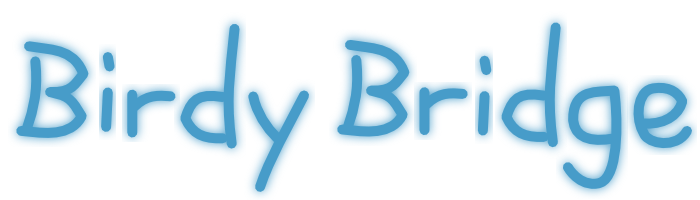
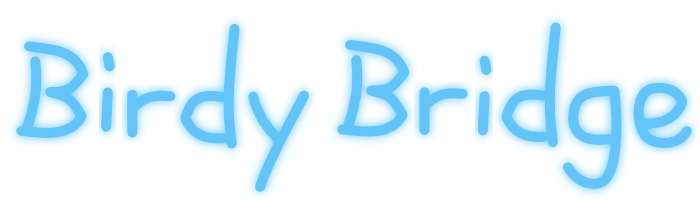
Fixed bugs.

Changed region(s): [[0.48, 0.12, 0.99, 0.96], [0.0, 0.12, 0.45, 0.96], [0.66, 0.27, 0.72, 0.39]]

diff --git a/data/script/main.js b/data/script/main.js
@@ -38,6 +38,16 @@ game.main = function(){
 	logo.y = 400;
 	logo.scaleX = 0.5;
 	logo.scaleY = 0.5;
+	logo.alpha = 0.8;
+	logo.on('mouseover', function(){
+		logo.alpha = 1;
+	});
+	logo.on('mouseout', function(){
+		logo.alpha = 0.8;
+	});
+	logo.on('click', function(){
+		window.open('http://github.com/LastLeaf', '_blank');
+	});
 	stage.addChild(logo);
 
 	// title
@@ -71,6 +81,37 @@ game.main = function(){
 		window.open('https://en.wikipedia.org/wiki/The_Weaver_Girl_and_the_Cowherd', '_blank');
 	});
 	stage.addChild(desc0, desc1, desc2);
+
+	// mute
+	var createButton = function(text, x, y, cb){
+		var menuButton = new createjs.Text(text, '18px "Noto Sans",sans', '#fff');
+		menuButton.alpha = 0.5;
+		menuButton.lineHeight = 30;
+		menuButton.textBaseline = 'middle';
+		menuButton.textAlign = 'center';
+		var menuButtonWrapper = new createjs.Container();
+		var menuButtonShape = new createjs.Shape();
+		menuButtonShape.graphics.f('#000').r(-50,-15,100,30);
+		menuButtonWrapper.x = x;
+		menuButtonWrapper.y = y;
+		menuButtonWrapper.addChild(menuButtonShape, menuButton);
+		stage.addChild(menuButtonWrapper);
+		menuButtonWrapper.on('mouseover', function(){
+			menuButton.alpha = 1;
+		});
+		menuButtonWrapper.on('mouseout', function(){
+			menuButton.alpha = 0.5;
+		});
+		menuButtonWrapper.on('click', cb);
+		return menuButtonWrapper;
+	};
+	var mute = createButton( game.sound.muted() ? 'Music: Off' : 'Music: On', 480, 410, function(){
+		if(game.sound.muteToggle()) {
+			mute.getChildAt(1).text = 'Music: Off';
+		} else {
+			mute.getChildAt(1).text = 'Music: On';
+		}
+	});
 
 	// levels
 	var birdsLoc = [
@@ -127,7 +168,7 @@ game.main = function(){
 			}
 		}
 	});
-	var createBird = function(x, y, monochrome){
+	var createBird = function(x, y, monochrome, id){
 		var bird = new createjs.Container();
 		var img = birdSprite;
 		if(monochrome) img = birdMtSprite;
@@ -135,19 +176,21 @@ game.main = function(){
 		birdPic.x = -35;
 		birdPic.y = -50;
 		birdPic.gotoAndPlay('stay');
-		birdPic.on('mouseover', function(){
-			birdPic.gotoAndPlay('fly');
-		});
-		birdPic.on('mouseout', function(){
-			birdPic.gotoAndPlay('stay');
-		});
+		if(id <= (game.storage.reachedLevel || 0) + 1) {
+			birdPic.on('mouseover', function(){
+				birdPic.gotoAndPlay('fly');
+			});
+			birdPic.on('mouseout', function(){
+				birdPic.gotoAndPlay('stay');
+			});
+		}
 		bird.addChild(birdPic);
 		bird.x = x;
 		bird.y = y;
 		return bird;
 	};
 	birdsLoc.forEach(function(pos, id){
-		var bird = createBird(pos.x, pos.y, id === 6);
+		var bird = createBird(pos.x, pos.y, id === 6, id);
 		if((game.storage.currentLevel || 0) === id) {
 			stage.addChild( createGirl(pos.x, pos.y) );
 		}
@@ -155,8 +198,10 @@ game.main = function(){
 			bird.alpha = 0.2;
 		}
 		bird.on('click', function(){
-			if(id > (game.storage.reachedLevel || 0)) {
-				if(!confirm('This level is locked. Do you REALLY want to play it?')) return;
+			if(id === (game.storage.reachedLevel || 0) + 1) {
+				if(!window.confirm('This level is locked. Do you REALLY want to play it?')) return;
+			} else if(id > (game.storage.reachedLevel || 0)) {
+				return;
 			}
 			if(id) game.level(id);
 			else game.texts(game.prologue, function(){

diff --git a/data/script/level.js b/data/script/level.js
@@ -53,13 +53,17 @@ game.level = function(levelId){
 		menuButtonWrapper.on('click', cb);
 		return menuButtonWrapper;
 	};
-	createButton('M', 20, 440, function(){
+	createButton('T', 20, 440, function(){
 		if(ended) return;
 		game.main();
 	});
 	createButton('R', 40, 440, function(){
 		if(ended) return;
 		endLevel(false);
+	});
+	createButton('M', 60, 440, function(){
+		if(ended) return;
+		game.sound.muteToggle();
 	});
 
 	// fade in
@@ -78,13 +82,6 @@ game.level = function(levelId){
 	hint.x = 400;
 	hint.y = 420;
 	hint.textAlign = 'center';
-	var hintAlpha = 600;
-	createjs.Ticker.on('tick', function(){
-		if(hintAlpha < 0) return;
-		hintAlpha--;
-		hint.alpha = hintAlpha / 60;
-		if(hintAlpha === 0) stage.removeChild(hint);
-	});
 	stage.addChild(hint);
 
 	// basic objects
@@ -331,6 +328,7 @@ game.level = function(levelId){
 		}
 		var min = (toBird.x - girl.x) * walkDir - 20;
 		var max = min + 40;
+		if(dx2 >= 1000000) dx = dx1;
 		if(dx < min) walkSkipFrom = fromBird.x + walkDir * 20;
 		else if(dx > max) walkSkipFrom = girl.x;
 		else walkSkipFrom = girl.x + walkDir * ((max + dx) / 2 - dx);

diff --git a/data/script/design.js b/data/script/design.js
@@ -16,7 +16,7 @@ game.epilogue = [
 
 game.levelDesign = [
 	{
-		hint: 'Place a bird. The girl would try jumping onto it. Try moving to the rightmost.',
+		hint: 'Place a bird. The girl will try jumping onto it. Try moving to the rightmost.',
 		audio: 1,
 		start: { x: 200, y: 300 },
 		end: { x: 600, y: 150 },
@@ -84,7 +84,7 @@ game.levelDesign = [
 		]
 	},
 	{
-		hint: 'But the girl wondered - the boy lives in this dangerous place?',
+		hint: 'But the girl wondered - the boy lives in this dangerous place???',
 		audio: 2,
 		start: { x: 50, y: 350 },
 		end: { x: 750, y: 150 },

diff --git a/data/script/sound.js b/data/script/sound.js
@@ -33,6 +33,13 @@
 			if(curAudio === num) return;
 			fadingOut = true;
 			curAudio = num;
+		},
+		muteToggle: function(){
+			createjs.Sound.muted = !createjs.Sound.muted;
+			return createjs.Sound.muted;
+		},
+		muted: function(){
+			return createjs.Sound.muted;
 		}
 	};
 })();
